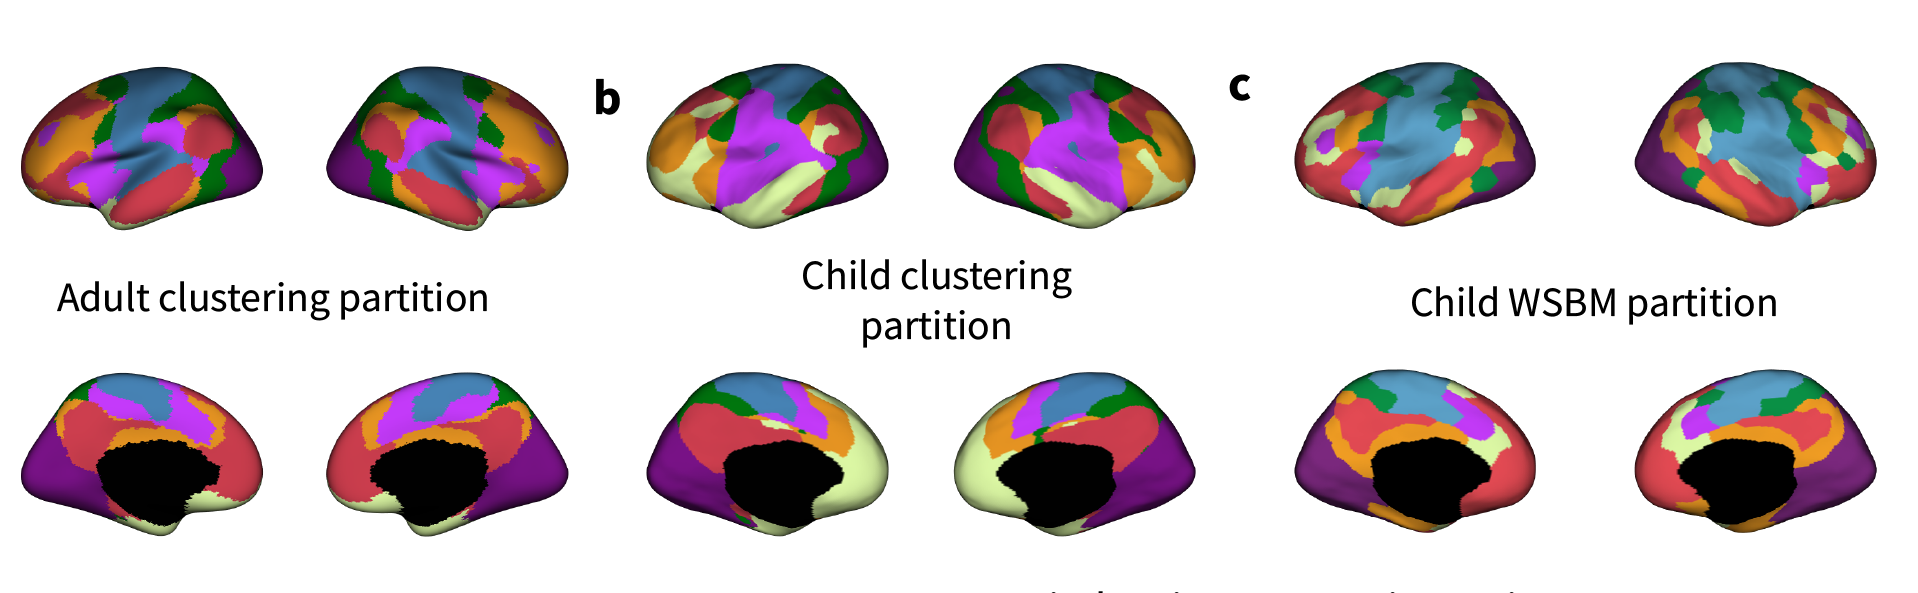
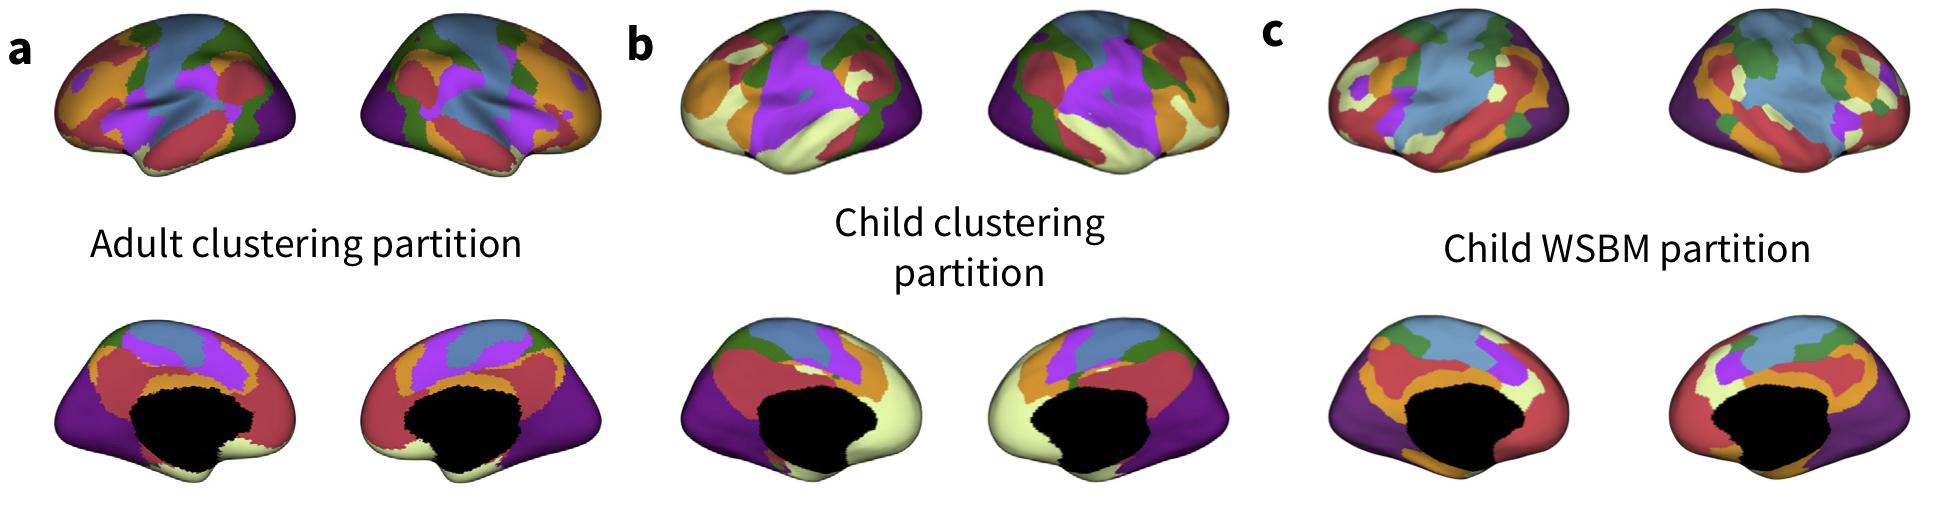
fix cover fig, link to adult clustering

diff --git a/README.md b/README.md
@@ -16,7 +16,9 @@ Code used in this repo depends heavily on that of the Computational Brain Imagin
 
 ![image](cover_fig.png)
 
-Both the developmental clustering partition and the developmental WSBM are provided in `fsaverage6`, `MNI152`, and `fs_LR 32k` space in the `partitions` folder. The WSBM partition is also provided as a vector of assignments for the Schaefer 400-region parcellation, available from the CBIG group [here](https://github.com/ThomasYeoLab/CBIG/tree/master/stable_projects/brain_parcellation/Schaefer2018_LocalGlobal).
+Both the developmental clustering partition and the developmental WSBM are provided in `fsaverage6`, `MNI152`, and `fs_LR 32k` space in the `partitions` folder. The adult clustering partition was estimated by Yeo _et al._ in their [2011 paper](https://www.ncbi.nlm.nih.gov/pmc/articles/PMC3174820/), and is available from the CBIG group [here](https://github.com/ThomasYeoLab/CBIG/tree/master/stable_projects/brain_parcellation/Yeo2011_fcMRI_clustering).
+
+The WSBM partition is also provided as a vector of assignments for the Schaefer 400-region parcellation, available from the CBIG group [here](https://github.com/ThomasYeoLab/CBIG/tree/master/stable_projects/brain_parcellation/Schaefer2018_LocalGlobal).
 
 ## Manuscript
 

diff --git a/partitions/README.md b/partitions/README.md
@@ -13,7 +13,7 @@ Run the following command:
 
 ## MNI152
 
-The clustering partition provided was projected to MNI152 1mm space from fsaverage6 (using the RF-ANTS method published by Wu *et al.* (2018) in *Human Brain Mapping*). The WSBM partition is provided as a relabeling of the Schaefer-400 parcellation in MNI152 1mm space (available from the CBIG group [here](https://github.com/ThomasYeoLab/CBIG/tree/master/stable_projects/brain_parcellation/Schaefer2018_LocalGlobal)).
+The developmental clustering partition provided was projected to MNI152 1mm space from fsaverage6 (using the RF-ANTS method published by Wu *et al.* (2018) in *Human Brain Mapping*). The WSBM partition is provided as a relabeling of the Schaefer-400 parcellation in MNI152 1mm space (available from the CBIG group [here](https://github.com/ThomasYeoLab/CBIG/tree/master/stable_projects/brain_parcellation/Schaefer2018_LocalGlobal)).
 
 
 The WSBM is also provided as a vector of assignments for the Schaefer 400-region parcellation, in `wsbm_schaefer400_assignments.txt`.
